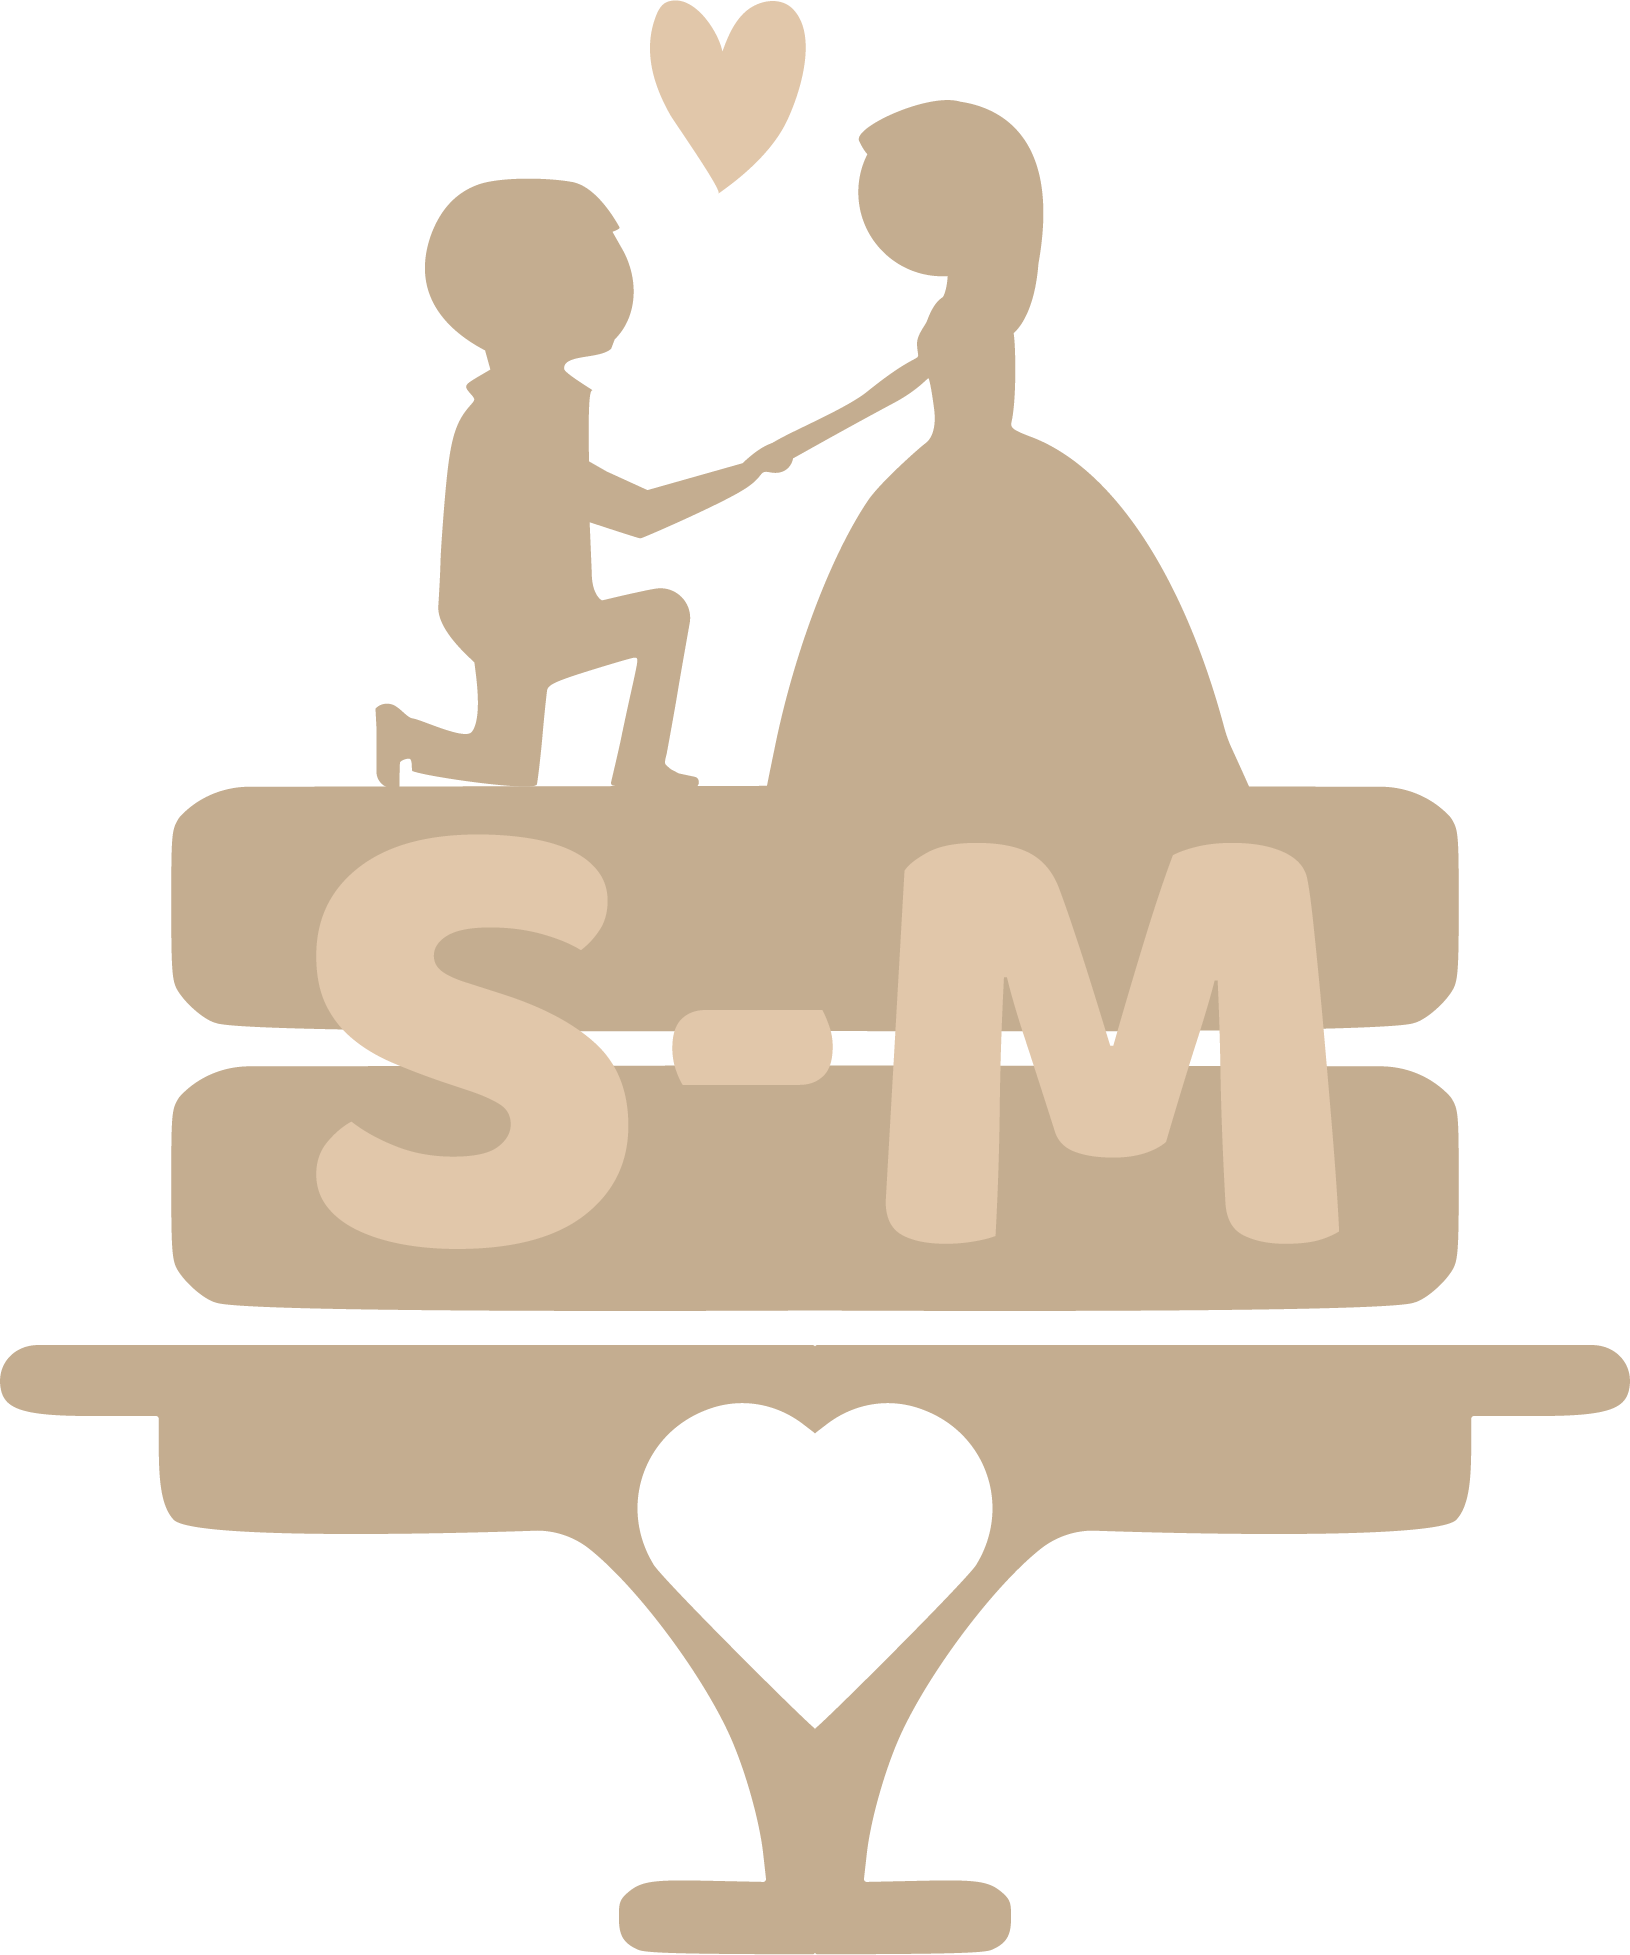
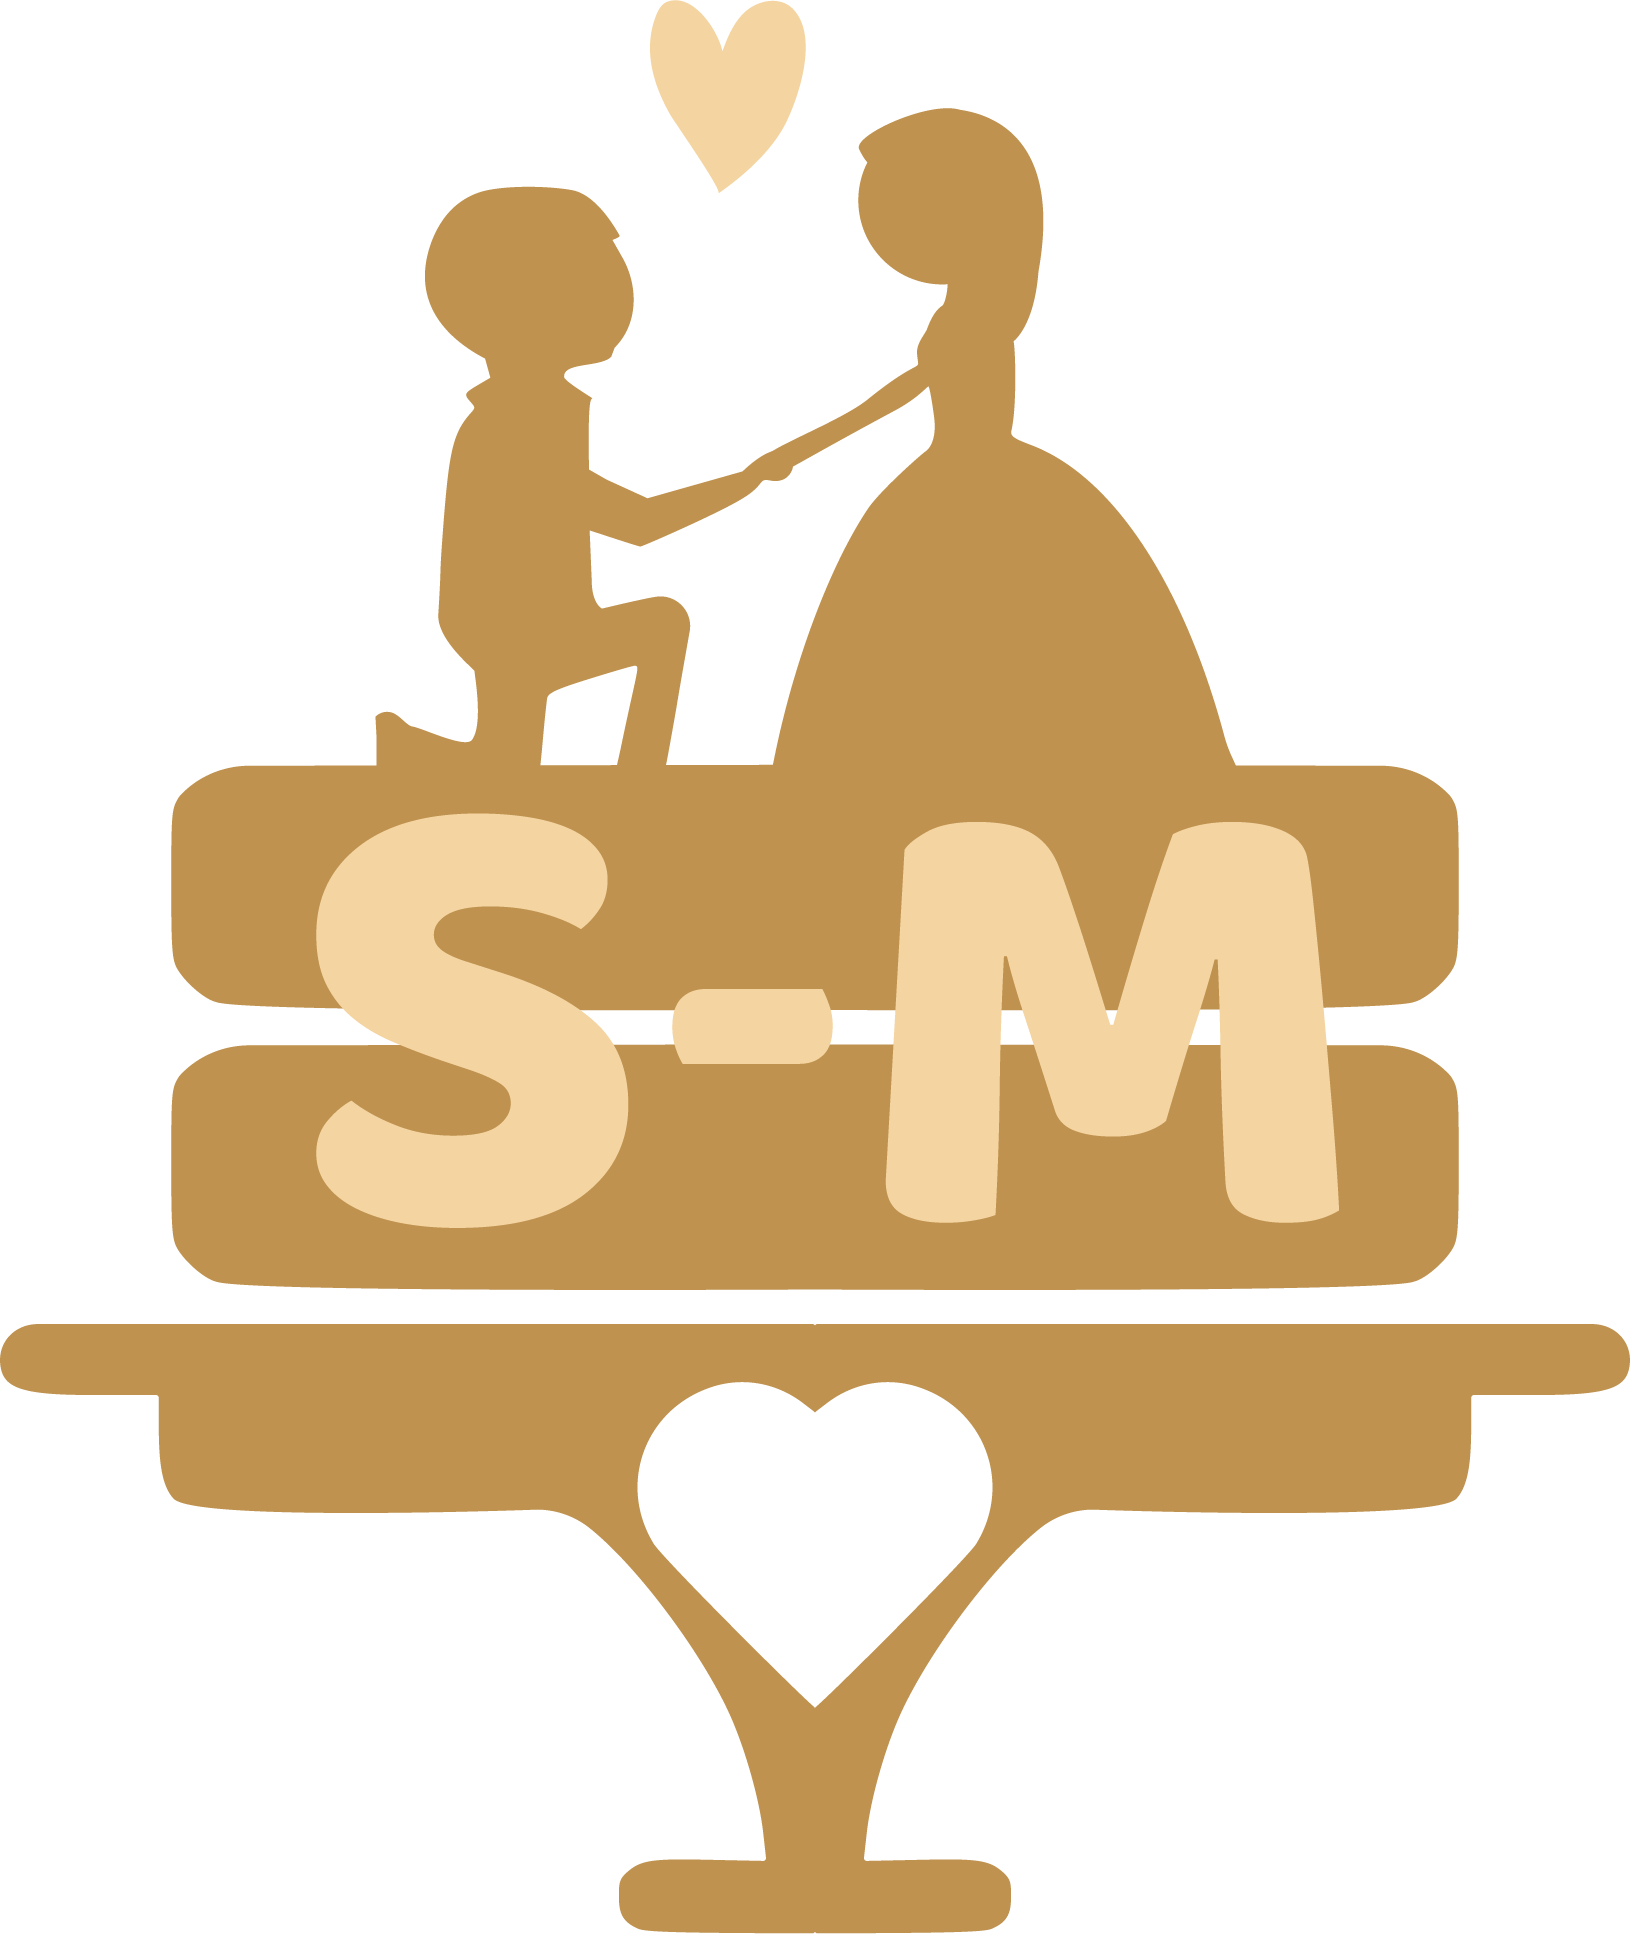
Replace design

diff --git a/common-css/styles.css b/common-css/styles.css
@@ -63,8 +63,8 @@ a, button{ display: inline-block; text-decoration: none; color: inherit; transit
 
 a:focus, a:active, a:hover,
 button:focus, button:active, button:hover,
-a b.light-color:hover{ text-decoration: none; color: #E45F74; }
-a{ color: #E45F74; font-weight: 700; }
+a b.light-color:hover{ text-decoration: none; color: #BE914F; }
+a{ color: #BE914F; font-weight: 700; }
 b{ font-weight: 500; }
 
 img{ width: 100%; }
@@ -89,23 +89,23 @@ b.light-color{ color: #444; }
 --------------------------------- */
 
 .btn{ padding: 15px 30px; border-radius: 1px; letter-spacing: 2px; 
-	border: 1px solid #E45F74; background: #E45F74; color: #fff; }
+	border: 1px solid #BE914F; background: #BE914F; color: #fff; }
 
-.btn:hover{ color: #E45F74; background: none; }
+.btn:hover{ color: #BE914F; background: none; }
 
 .btn-2{ font-size: .9em; padding: 15px 30px; border-radius: 1px; letter-spacing: 2px; 
-	border: 1px solid #E45F74; }
+	border: 1px solid #BE914F; }
 
-.btn-2:hover{ background: #E45F74; color: #fff; }
+.btn-2:hover{ background: #BE914F; color: #fff; }
 
 .border-btn{ font-size: .9em; padding-bottom: 5px; background: none; color: inherit; border: 0; 
 	position: relative; overflow: hidden; }
 
 .border-btn:after{ content:''; position: absolute; bottom: 0; left: 0; right: 0; height: 2px; 
-	transition: all .3s; background: #E45F74; }
+	transition: all .3s; background: #BE914F; }
 
 .border-btn:before{ content:''; position: absolute; bottom: 0; left: 0; right: 0; height: 2px; 
-	transform: translateX(-130%); transition: all .3s; background: #E45F74; }
+	transform: translateX(-130%); transition: all .3s; background: #BE914F; }
 	
 .border-btn:hover:after{ transform: translateX(130%); }
 
@@ -116,14 +116,14 @@ b.light-color{ color: #444; }
 
 .section .heading{ padding-bottom: 40px; }
 
-.section .heading .icon{ font-size: 18px; margin-top: 20px; color: #E45F74; }
+.section .heading .icon{ font-size: 18px; margin-top: 20px; color: #BE914F; }
 
 .section .heading .icon.color-white{ color: #fff; }
 
 .section .heading .heading-bottom{ margin-top: 20px; display: inline-block; width: 160px; height: 20px; 
 	line-height: 20px; position: relative; }
 
-.section .heading .heading-bottom .icon{ position: absolute; left: 50%; top: 50%; margin: -9px 0 0 -9px; }
+.section .heading .heading-bottom .icon{ position: absolute; left: 50%; top: 50%; margin: -9px 0 0 -9px; color: #f4d4a1; }
 	
 .section .heading .heading-bottom:after{ content:''; position: absolute; left: 0; top: 50%; margin-top: -.5px;
 	height: 1px; width: 60px; background: #aaa; }
@@ -137,7 +137,7 @@ b.light-color{ color: #444; }
 
 .center-text{ text-align: center; } 
 
-.color-white{ color: #fff; }
+.color-white{ color: #f4d4a1; }
 
 .display-table{ display: table; height: 100%; width: 100%; }
 
@@ -226,7 +226,7 @@ header .main-menu li.drop-down > ul.drop-down-inner{ top: 0; left: auto; left: 1
 /* DROPDOWN HOVER */
 
 header .main-menu > li > a:hover,
-header .main-menu li a.mouseover{ border-color: #E45F74; }
+header .main-menu li a.mouseover{ border-color: #BE914F; }
 
 header .main-menu li.drop-down a.mouseover + ul.drop-down-menu{ display: block; 
 	animation: full-opacity-anim .2s forwards; }
@@ -265,7 +265,7 @@ img.sm-logo {
 
 .slider-content i.small-icon{ font-size: 2.5em; }
 
-.slider-content .title i{ transform: translateY(10px); font-size: .8em; color: #E45F74; }
+.slider-content .title i{ transform: translateY(10px); font-size: .8em; color: #F4D4A1; }
 
 
 /* ---------------------------------
@@ -325,7 +325,7 @@ img.sm-logo {
 	
 .w-detail .title{ margin: 10px 0; }
 
-.w-detail .icon{ font-size: 3.5em; line-height: 1; color: #E45F74; }
+.w-detail .icon{ font-size: 3.5em; line-height: 1; color: #BE914F; }
 
 
 
@@ -353,7 +353,7 @@ img.sm-logo {
 .contact-area .map-area{ width: 50%; position: absolute; top: 0; bottom: 0; right: 0; }
 
 
-.contact-area .phone{ margin: 10px 0; font-size: 2em; color: #E45F74; }
+.contact-area .phone{ margin: 10px 0; font-size: 2em; color: #BE914F; }
 
 
 /* ---------------------------------
@@ -376,7 +376,7 @@ footer:after{ content: ''; position: absolute; top: 0; bottom: 0; left: 0; right
 footer ul > li > a{ padding: 10px 15px; }
 
 
-footer .logo-wrapper .icon{ color: #E45F74; }
+footer .logo-wrapper .icon{ color: #BE914F; }
 
 footer .logo{ display: block; height: 50px; }
 

diff --git a/index.html b/index.html
@@ -94,36 +94,38 @@
 				<div class="col-sm-1"></div>
 				<div class="col-sm-10">
 					<div class="heading">
-						<h2 class="title">TODO Menetrend</h2>
+						<h2 class="title">Menetrend</h2>
 						<span class="heading-bottom"><i class="icon icon-star"></i></span>
 					</div>
 					<div class="wedding-details margin-bottom">
 						<div class="w-detail left">
-							<img class="img-icon" src="./images/home.svg" alt="">
-							<h4 class="title">14:00 - SZÁLLÁS ELFOGLALÁSA</h4>
+							<img class="img-icon" src="./images/rings.png" alt="">
+							<h4 class="title">14:00 - SZERTARTÁS</h4>
 						</div><!-- w-detail -->
 						<div class="w-detail right">
-							<i class="icon icon-wine-glass"></i>
-							<h4 class="title">16:00 - VENDÉGVÁRÁS</h4>
+							<img class="img-icon" src="./images/camera.png" alt="">
+							<img class="img-icon" src="./images/glasses.png" alt="">
+							<h4 class="title">15:00 - KÖZÖS FOTÓ KÉSZÍTÉS</h4>
 						</div><!-- w-detail -->
 						<div class="w-detail left">
-							<i class="icon icon-ciurclke"></i>
-							<h4 class="title">17:00 - SZERTARTÁS</h4>
+							<img class="img-icon" src="./images/dinner.png" alt="">
+							<h4 class="title">18:00 - VACSORA</h4>
 						</div><!-- w-detail -->
 						<div class="w-detail right">
-							<img class="img-icon" src="./images/dinner.svg" alt="">
-							<h4 class="title">19:00 - VACSORA</h4>
+							<img class="img-icon" src="./images/music.png" alt="">
+							<h4 class="title">20:00 - NYITÓTÁNC</h4>
 						</div><!-- w-detail -->
 						<div class="w-detail left">
-							<i class="icon icon-cake"></i>
-							<h4 class="title">22:00 - MENYASSZONYI TORTA</h4>
+							<img class="img-icon" src="./images/cake.png" alt="">
+							<h4 class="title">21:00 - TORTA</h4>
 						</div><!-- w-detail -->
 						<div class="w-detail right">
-							<img class="img-icon" src="./images/dance.png" alt="">
-							<h4 class="title">23:30 - MENYASSZONY TÁNC</h4>
+							<img class="img-icon" src="./images/couple.png" alt="">
+							<img class="img-icon" src="./images/dj.png" alt="">
+							<h4 class="title">23:00 - MENYASSZONY TÁNC</h4>
 						</div><!-- w-detail -->
 						<div class="w-detail left">
-							<img class="img-icon" src="./images/dining.svg" alt="">
+							<img class="img-icon" src="./images/dinner.png" alt="">
 							<h4 class="title">00:00 - ÉJFÉLI VACSORA</h4>
 						</div><!-- w-detail -->
 					</div><!-- wedding-details -->
